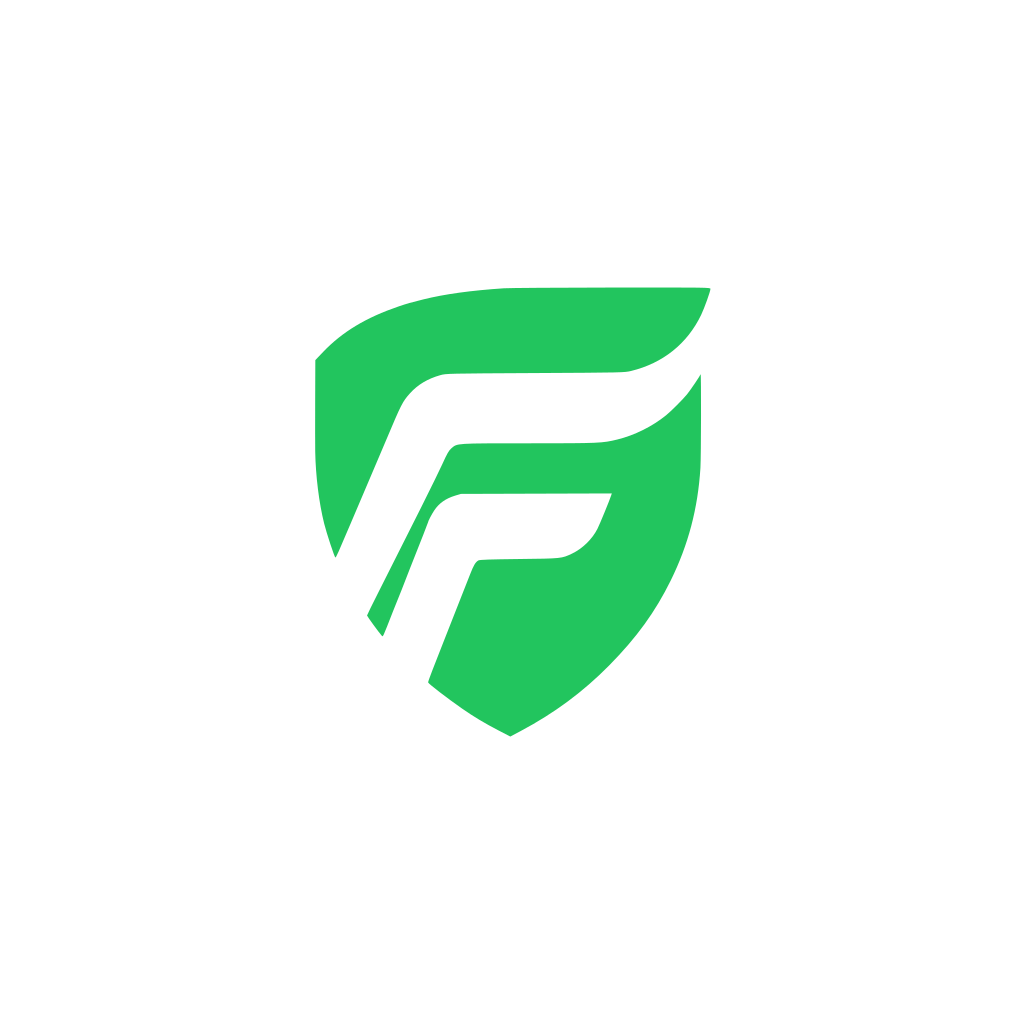
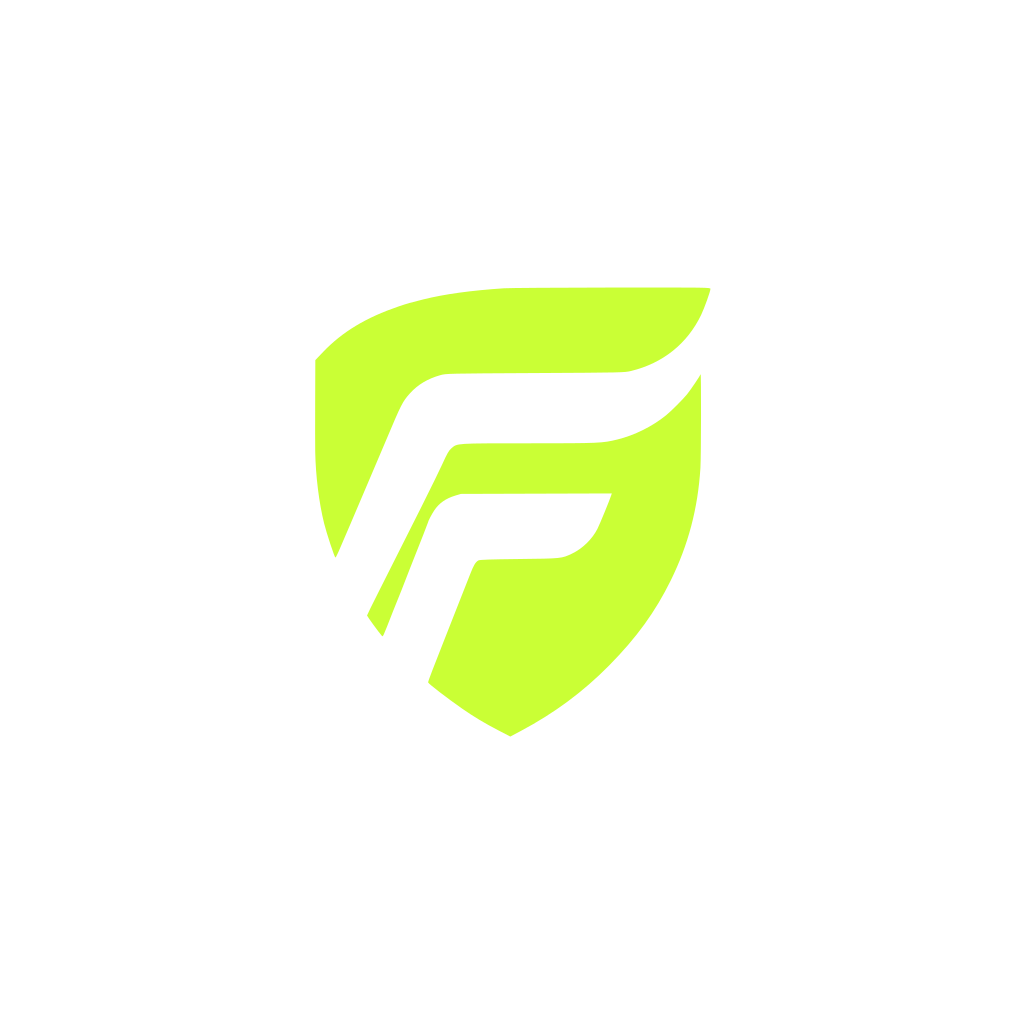
feat(brand): Refresh the mark and regenerate assets

Changed region(s): [[0.3438, 0.375, 0.6875, 0.7188], [0.2812, 0.2812, 0.6875, 0.5312]]

diff --git a/apps/mobile/src/ui/logo.tsx b/apps/mobile/src/ui/logo.tsx
@@ -1,9 +1,5 @@
 import Svg, { Path } from "react-native-svg";
-import { BRAND_SCALE, oklchToHex } from "@futrob/ui-tokens";
 import { theme } from "@/theme/theme";
-
-/** Web `Logo` defaults to `--brand-500`; keep parity on mobile. */
-const BRAND_MARK_COLOR = oklchToHex(BRAND_SCALE[500]);
 
 const LOGO_PATH =
   "M505.5 218.091C462.343 220.991 428.636 225.636 401 232.492C384.386 236.613 379.744 237.934 369 241.595C326.69 256.012 296.005 274.505 271.088 300.603L261 311.169L260.803 363.834C260.695 392.8 260.72 422.575 260.858 430C261.444 461.414 265.778 496.189 272.45 523C275.565 535.518 285.965 567 286.986 567C287.903 567 290.892 560.341 306.512 523.5C313.508 507 325.197 479.55 332.487 462.5C339.777 445.45 348.773 424.3 352.478 415.5C372.51 367.919 374.071 364.852 383.696 354.156C393.762 342.97 406.582 335.3 422.907 330.697C430.407 328.582 431.92 328.549 546 327.955C659.524 327.363 661.65 327.317 670.271 325.216C711.409 315.19 743.03 289.868 760.938 252.61C765.182 243.78 773 221.924 773 218.889C773 217.046 769.878 217.003 645.25 217.142C574.987 217.22 512.1 217.647 505.5 218.091M760.241 329.545C759.86 331.196 747.146 349.98 742.672 355.5C737.455 361.937 721.941 377.452 715.5 382.673C697.577 397.201 674.578 408.627 652.3 414.072C632.849 418.826 629.722 418.96 537.932 418.981C442.116 419.002 445.085 418.812 437.352 425.43C433.998 428.302 431.928 431.912 425.445 446.203C418.444 461.637 387.921 522.835 343.352 610.799C334.908 627.463 328 641.547 328 642.098C328 643.039 343.643 664.533 346.987 668.187C348.744 670.106 347.904 671.906 361.539 637C365.729 626.275 370.022 615.592 371.078 613.261C372.135 610.929 373 608.772 373 608.466C373 608.16 377.772 595.892 383.605 581.205C399.375 541.491 407 522.023 407 521.471C407 520.065 411.839 510.798 415.166 505.832C421.339 496.617 429.911 490.553 442 486.846L449.5 484.546L547.328 484.24L645.156 483.934L644.452 486.217C642.683 491.952 629.6 523.839 626.559 529.825C619.775 543.181 607.132 555.512 593.665 561.906C580.158 568.32 580.277 568.307 525 568.931C487.46 569.354 473.942 569.819 472.328 570.744C468.616 572.869 466.241 576.77 461.931 587.826C459.642 593.697 452.69 611.325 446.48 627C440.271 642.675 431.509 664.95 427.008 676.5C422.508 688.05 416.125 704.355 412.824 712.733C409.523 721.11 406.974 728.376 407.161 728.879C407.88 730.816 431.9 749.303 451 762.62C466.304 773.29 480.319 781.697 498.584 791.163L513.667 798.98L527.084 791.847C570.841 768.584 607.98 741.054 641.688 706.892C677.43 670.671 701.572 637.344 721.657 596.5C744.345 550.362 756.729 503.388 760.016 451C760.916 436.655 761.121 325.725 760.241 329.545";
@@ -11,7 +7,7 @@ const LOGO_PATH =
 export interface LogoProps {
   /** Mark height in dp; width follows the canonical aspect ratio (553/622). */
   height?: number;
-  /** Render in foreground color instead of brand green. */
+  /** Render in foreground color instead of brand lime. */
   monochrome?: boolean;
   /** Accessible label when the mark stands alone. */
   accessibilityLabel?: string;
@@ -33,7 +29,7 @@ export function Logo({ height = 64, monochrome = false, accessibilityLabel }: Lo
       <Path
         d={LOGO_PATH}
         fillRule="evenodd"
-        fill={monochrome ? theme.colors.foreground : BRAND_MARK_COLOR}
+        fill={monochrome ? theme.colors.foreground : theme.colors.primary}
       />
     </Svg>
   );

diff --git a/packages/ui/src/logo.tsx b/packages/ui/src/logo.tsx
@@ -5,7 +5,7 @@ const LOGO_PATH =
   "M505.5 218.091C462.343 220.991 428.636 225.636 401 232.492C384.386 236.613 379.744 237.934 369 241.595C326.69 256.012 296.005 274.505 271.088 300.603L261 311.169L260.803 363.834C260.695 392.8 260.72 422.575 260.858 430C261.444 461.414 265.778 496.189 272.45 523C275.565 535.518 285.965 567 286.986 567C287.903 567 290.892 560.341 306.512 523.5C313.508 507 325.197 479.55 332.487 462.5C339.777 445.45 348.773 424.3 352.478 415.5C372.51 367.919 374.071 364.852 383.696 354.156C393.762 342.97 406.582 335.3 422.907 330.697C430.407 328.582 431.92 328.549 546 327.955C659.524 327.363 661.65 327.317 670.271 325.216C711.409 315.19 743.03 289.868 760.938 252.61C765.182 243.78 773 221.924 773 218.889C773 217.046 769.878 217.003 645.25 217.142C574.987 217.22 512.1 217.647 505.5 218.091M760.241 329.545C759.86 331.196 747.146 349.98 742.672 355.5C737.455 361.937 721.941 377.452 715.5 382.673C697.577 397.201 674.578 408.627 652.3 414.072C632.849 418.826 629.722 418.96 537.932 418.981C442.116 419.002 445.085 418.812 437.352 425.43C433.998 428.302 431.928 431.912 425.445 446.203C418.444 461.637 387.921 522.835 343.352 610.799C334.908 627.463 328 641.547 328 642.098C328 643.039 343.643 664.533 346.987 668.187C348.744 670.106 347.904 671.906 361.539 637C365.729 626.275 370.022 615.592 371.078 613.261C372.135 610.929 373 608.772 373 608.466C373 608.16 377.772 595.892 383.605 581.205C399.375 541.491 407 522.023 407 521.471C407 520.065 411.839 510.798 415.166 505.832C421.339 496.617 429.911 490.553 442 486.846L449.5 484.546L547.328 484.24L645.156 483.934L644.452 486.217C642.683 491.952 629.6 523.839 626.559 529.825C619.775 543.181 607.132 555.512 593.665 561.906C580.158 568.32 580.277 568.307 525 568.931C487.46 569.354 473.942 569.819 472.328 570.744C468.616 572.869 466.241 576.77 461.931 587.826C459.642 593.697 452.69 611.325 446.48 627C440.271 642.675 431.509 664.95 427.008 676.5C422.508 688.05 416.125 704.355 412.824 712.733C409.523 721.11 406.974 728.376 407.161 728.879C407.88 730.816 431.9 749.303 451 762.62C466.304 773.29 480.319 781.697 498.584 791.163L513.667 798.98L527.084 791.847C570.841 768.584 607.98 741.054 641.688 706.892C677.43 670.671 701.572 637.344 721.657 596.5C744.345 550.362 756.729 503.388 760.016 451C760.916 436.655 761.121 325.725 760.241 329.545";
 
 export interface LogoProps extends Omit<SVGProps<SVGSVGElement>, "color"> {
-  /** Use current text color instead of brand green (print, partner lockups). */
+  /** Use current text color instead of brand lime (print, partner lockups). */
   monochrome?: boolean;
   /** Accessible name when the logo stands alone. Skip if visible text already says Futrob. */
   title?: string;
@@ -24,7 +24,7 @@ export function Logo({ monochrome = false, title, style, ...props }: Readonly<Lo
       viewBox="240 197 553 622"
       xmlns="http://www.w3.org/2000/svg"
       style={{
-        color: monochrome ? "currentColor" : "var(--brand-500)",
+        color: monochrome ? "currentColor" : "var(--primary)",
         display: "block",
         aspectRatio: "553 / 622",
         // Global `svg { max-width: 100% }` collapses height-sized marks in shrink-wrapped parents (e.g. Storybook).

diff --git a/packages/ui/src/stories/logo.stories.tsx b/packages/ui/src/stories/logo.stories.tsx
@@ -152,7 +152,7 @@ export const Playground: Story = {
 };
 
 export const Brand: Story = {
-  name: "Brand green",
+  name: "Brand lime",
   args: {
     monochrome: false,
     title: "Futrob",

diff --git a/design.md b/design.md
@@ -1136,6 +1136,11 @@ Fondos de producto (no son marca; viven en `apps/web/src/assets/`):
 | `background-match.png`   | [Superficie de partido](#superficie-de-partido): héroe, contenido de Último partido, filas. |
 | `background-default.png` | Cards de onboarding / vacío con foto, sin escena de partido.                                |
 
+Regenerar los SVG del logo, favicons e imágenes web con
+`npm run generate:assets -w @futrob/web`. El generador toma el trazado canónico de
+`packages/ui/src/logo.tsx` y los colores semánticos de `@futrob/ui-tokens`;
+la composición Open Graph se mantiene en `/og/futrob-default.svg`.
+
 La metadata global está conectada en
 [`apps/web/src/routes/__root.tsx`](/apps/web/src/routes/__root.tsx). Cuando exista dominio de
 producción, las rutas públicas deben emitir una URL absoluta para `og:image` y una URL canónica.
